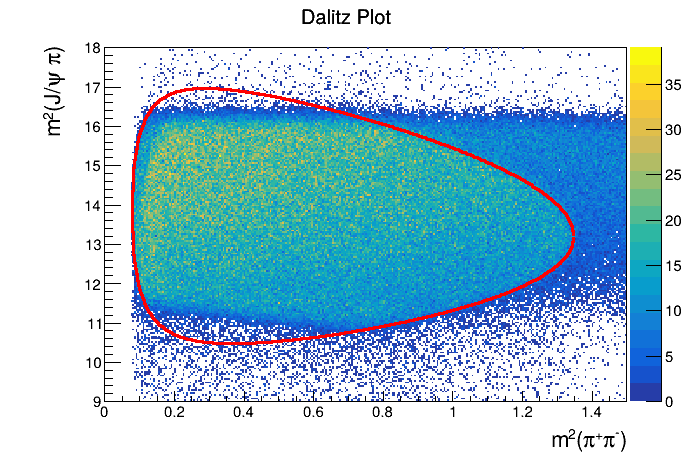
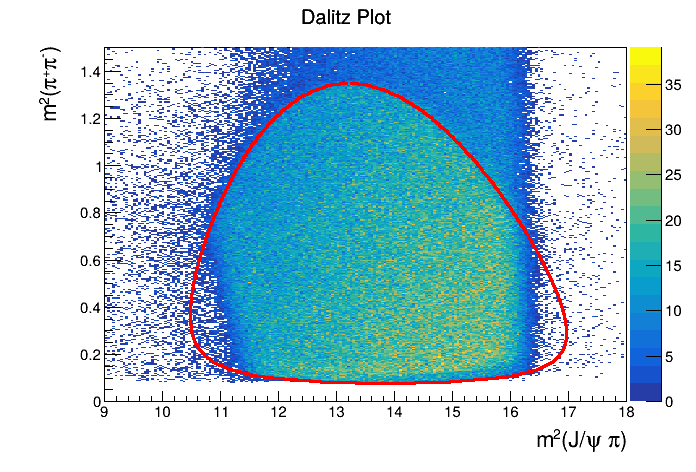
switched axes of the dalitz plot

diff --git a/part1_PID/ZcAnalysis.C b/part1_PID/ZcAnalysis.C
@@ -32,7 +32,7 @@ bool task_2_2 = false;
 bool task_2_3 = false;
 bool task_3_1_and_3_2 = false;
 bool task_3_3 = false;
-bool task_3_5 = false;
+bool task_3_5 = true;
 bool task_3_6 = true;
 
 void ZcAnalysis::Loop(TString savePath)
@@ -167,9 +167,9 @@ void ZcAnalysis::Loop(TString savePath)
     if (task_3_6) {
         h9_dalitz = new TH2D(
             "h_dalitz",
-            "Dalitz Plot; m^{2}(#pi^{+}#pi^{-}); m^{2}(J/#psi #pi)",
-            300, 0, 1.5,
-            200, 9, 18
+            "Dalitz Plot; m^{2}(J/#psi #pi); m^{2}(#pi^{+}#pi^{-})",
+            200, 9, 18,
+            300, 0, 1.5
         );
     }
     
@@ -317,8 +317,8 @@ void ZcAnalysis::Loop(TString savePath)
             double m2_jpsi_pi_plus  = (jpsi + pion_plus).M2();
             double m2_jpsi_pi_minus = (jpsi + pion_minus).M2();
 
-            h9_dalitz->Fill(m2_pipi, m2_jpsi_pi_plus);
-            h9_dalitz->Fill(m2_pipi, m2_jpsi_pi_minus);
+            h9_dalitz->Fill(m2_jpsi_pi_plus, m2_pipi);
+            h9_dalitz->Fill(m2_jpsi_pi_minus, m2_pipi);
         }
 
         //=============================================================================
@@ -629,10 +629,12 @@ void ZcAnalysis::Loop(TString savePath)
         const double m2 = pion_mass;
         const double m3 = 3.0969;
 
-        std::vector<double> x;
-        std::vector<double> y_min;
-        std::vector<double> y_max;
+        std::vector<double> s23_boundary;
+        std::vector<double> s12_boundary;
+        std::vector<double> s23_boundary_max;
+        std::vector<double> s12_boundary_max;
 
+        // Iterate over s12 and compute s23 bounds (use correct physical formula)
         for (double s12 = pow(2*pion_mass,2); s12 < pow(M - m3,2); s12 += 0.005)
         {
             double sqrt_s12 = sqrt(s12);
@@ -646,13 +648,15 @@ void ZcAnalysis::Loop(TString savePath)
             double s23_max = pow(E2+E3,2) - pow(p2-p3,2);
             double s23_min = pow(E2+E3,2) - pow(p2+p3,2);
 
-            x.push_back(s12);
-            y_min.push_back(s23_min);
-            y_max.push_back(s23_max);
+            // Swap axes for display (x = s23, y = s12)
+            s23_boundary.push_back(s23_min);
+            s12_boundary.push_back(s12);
+            s23_boundary_max.push_back(s23_max);
+            s12_boundary_max.push_back(s12);
         }
 
-        TGraph* g_min = new TGraph(x.size(), &x[0], &y_min[0]);
-        TGraph* g_max = new TGraph(x.size(), &x[0], &y_max[0]);
+        TGraph* g_min = new TGraph(s23_boundary.size(), &s23_boundary[0], &s12_boundary[0]);
+        TGraph* g_max = new TGraph(s23_boundary_max.size(), &s23_boundary_max[0], &s12_boundary_max[0]);
 
         g_min->SetLineColor(kRed);
         g_max->SetLineColor(kRed);
